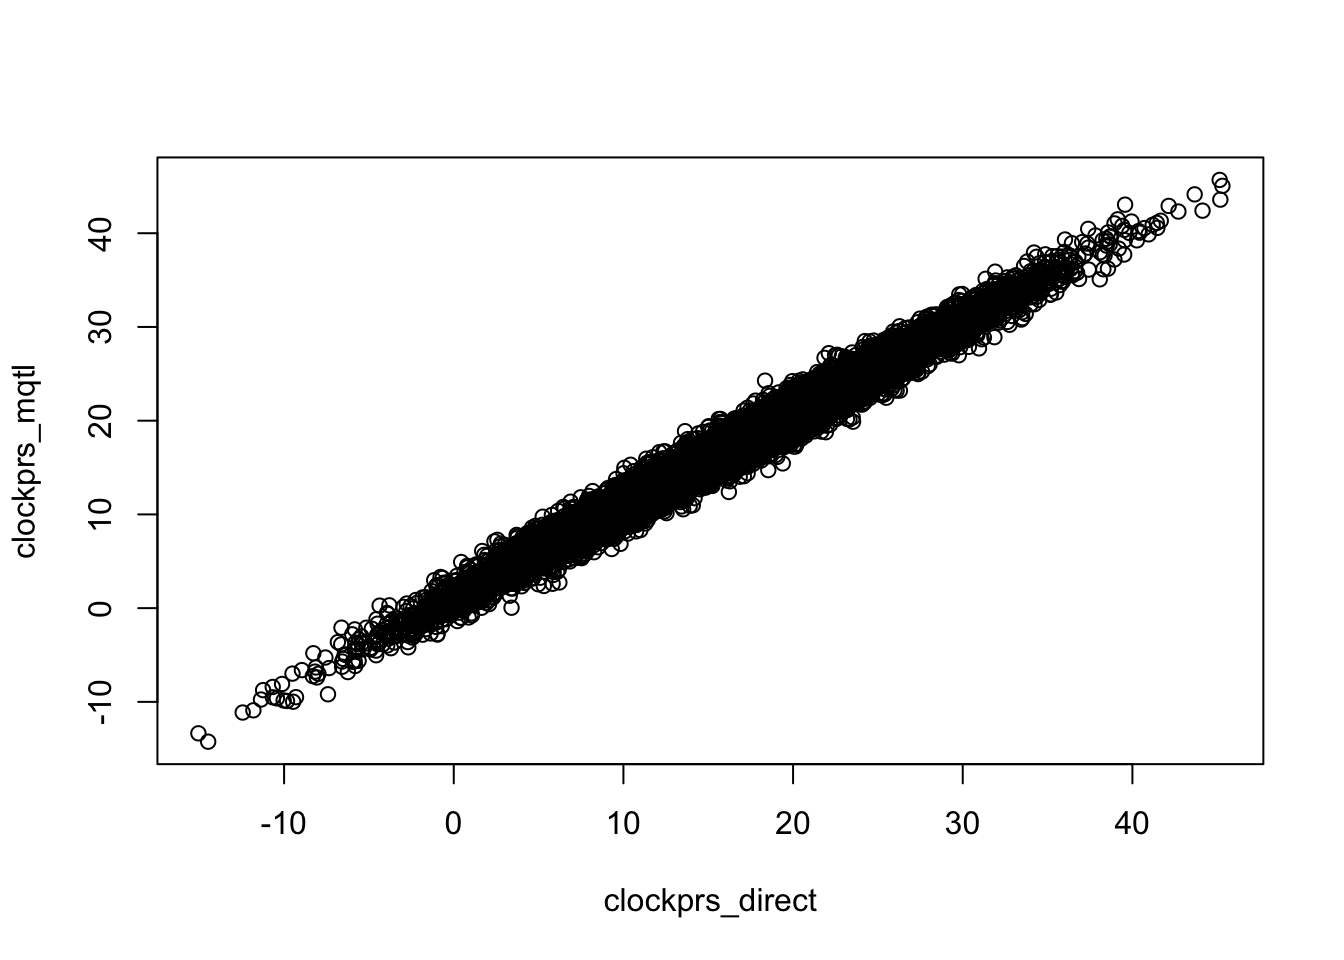
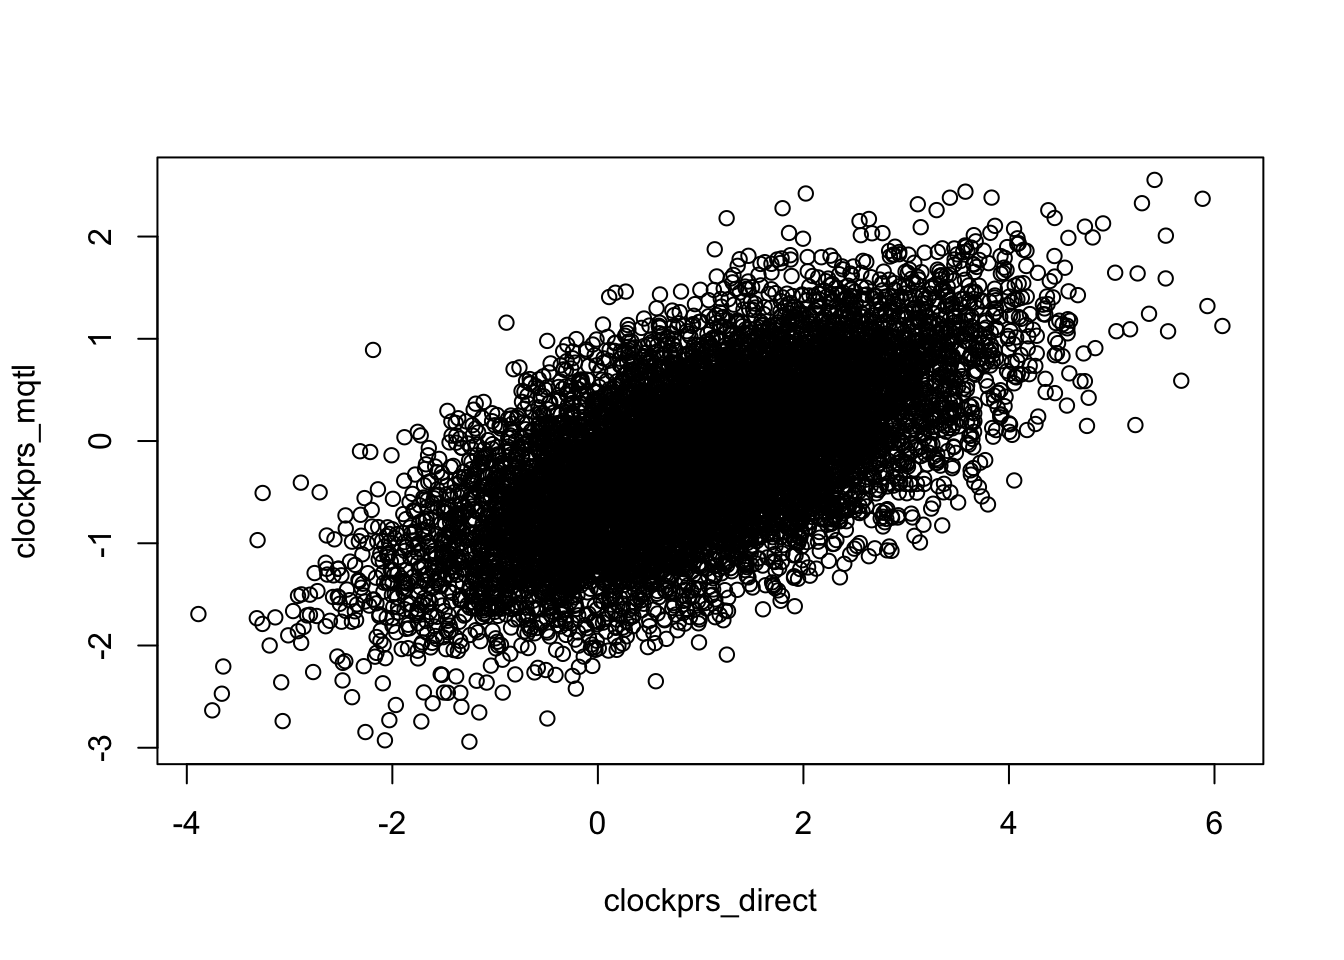
updated comparison

diff --git a/docs/posts/2024-01-04-clocks-mqtls/index.html b/docs/posts/2024-01-04-clocks-mqtls/index.html
@@ -209,17 +209,67 @@ Attaching package: 'dplyr'</code></pre>
 <span id="cb5-4"><a href="#cb5-4" aria-hidden="true" tabindex="-1"></a></span>
 <span id="cb5-5"><a href="#cb5-5" aria-hidden="true" tabindex="-1"></a>w <span class="ot">&lt;-</span> <span class="fu">rnorm</span>(ncpg)</span>
 <span id="cb5-6"><a href="#cb5-6" aria-hidden="true" tabindex="-1"></a>g <span class="ot">&lt;-</span> <span class="fu">matrix</span>(<span class="fu">rbinom</span>(ncpg <span class="sc">*</span> nid, <span class="dv">2</span>, <span class="fl">0.5</span>), nid, ncpg)</span>
-<span id="cb5-7"><a href="#cb5-7" aria-hidden="true" tabindex="-1"></a>b <span class="ot">&lt;-</span> <span class="fu">rnorm</span>(ncpg)</span>
+<span id="cb5-7"><a href="#cb5-7" aria-hidden="true" tabindex="-1"></a>b <span class="ot">&lt;-</span> <span class="fu">rnorm</span>(ncpg, <span class="at">sd=</span><span class="fl">0.1</span>)</span>
 <span id="cb5-8"><a href="#cb5-8" aria-hidden="true" tabindex="-1"></a>e <span class="ot">&lt;-</span> <span class="fu">matrix</span>(<span class="fu">rnorm</span>(ncpg <span class="sc">*</span> nid), nid, ncpg)</span>
-<span id="cb5-9"><a href="#cb5-9" aria-hidden="true" tabindex="-1"></a>cpghat <span class="ot">&lt;-</span> <span class="fu">t</span>(<span class="fu">t</span>(g) <span class="sc">*</span> b)</span>
-<span id="cb5-10"><a href="#cb5-10" aria-hidden="true" tabindex="-1"></a>cpg <span class="ot">&lt;-</span> cpghat <span class="sc">+</span> e</span>
+<span id="cb5-9"><a href="#cb5-9" aria-hidden="true" tabindex="-1"></a>cpgg <span class="ot">&lt;-</span> <span class="fu">t</span>(<span class="fu">t</span>(g) <span class="sc">*</span> b)</span>
+<span id="cb5-10"><a href="#cb5-10" aria-hidden="true" tabindex="-1"></a>cpg <span class="ot">&lt;-</span> cpgg <span class="sc">+</span> e</span>
 <span id="cb5-11"><a href="#cb5-11" aria-hidden="true" tabindex="-1"></a>clock <span class="ot">&lt;-</span> cpg <span class="sc">%*%</span> w</span>
 <span id="cb5-12"><a href="#cb5-12" aria-hidden="true" tabindex="-1"></a>clockgwas <span class="ot">&lt;-</span> <span class="fu">gwas</span>(clock, g)</span>
 <span id="cb5-13"><a href="#cb5-13" aria-hidden="true" tabindex="-1"></a>clockprs_direct <span class="ot">&lt;-</span> g <span class="sc">%*%</span> clockgwas<span class="sc">$</span>bhat</span>
-<span id="cb5-14"><a href="#cb5-14" aria-hidden="true" tabindex="-1"></a>clockprs_mqtl <span class="ot">&lt;-</span> cpghat <span class="sc">%*%</span> w</span>
-<span id="cb5-15"><a href="#cb5-15" aria-hidden="true" tabindex="-1"></a><span class="fu">plot</span>(clockprs_direct, clockprs_mqtl)</span></code><button title="Copy to Clipboard" class="code-copy-button"><i class="bi"></i></button></pre></div>
+<span id="cb5-14"><a href="#cb5-14" aria-hidden="true" tabindex="-1"></a></span>
+<span id="cb5-15"><a href="#cb5-15" aria-hidden="true" tabindex="-1"></a>bhat <span class="ot">&lt;-</span> <span class="fu">sapply</span>(<span class="dv">1</span><span class="sc">:</span>ncpg, \(i) {</span>
+<span id="cb5-16"><a href="#cb5-16" aria-hidden="true" tabindex="-1"></a>    <span class="fu">fast_assoc</span>(cpg[,i], g[,i])<span class="sc">$</span>bhat</span>
+<span id="cb5-17"><a href="#cb5-17" aria-hidden="true" tabindex="-1"></a>})</span>
+<span id="cb5-18"><a href="#cb5-18" aria-hidden="true" tabindex="-1"></a>cpghat <span class="ot">&lt;-</span> <span class="fu">t</span>(<span class="fu">t</span>(g) <span class="sc">*</span> bhat)</span>
+<span id="cb5-19"><a href="#cb5-19" aria-hidden="true" tabindex="-1"></a>clockprs_mqtl <span class="ot">&lt;-</span> cpghat <span class="sc">%*%</span> w</span>
+<span id="cb5-20"><a href="#cb5-20" aria-hidden="true" tabindex="-1"></a><span class="fu">plot</span>(clockprs_direct, clockprs_mqtl)</span></code><button title="Copy to Clipboard" class="code-copy-button"><i class="bi"></i></button></pre></div>
 <div class="cell-output-display">
 <p><img src="index_files/figure-html/unnamed-chunk-1-1.png" class="img-fluid" width="672"></p>
+</div>
+</div>
+<p>Which is better powered?</p>
+<div class="cell">
+<div class="sourceCode cell-code" id="cb6"><pre class="sourceCode r code-with-copy"><code class="sourceCode r"><span id="cb6-1"><a href="#cb6-1" aria-hidden="true" tabindex="-1"></a><span class="fu">summary</span>(<span class="fu">lm</span>(clock <span class="sc">~</span> clockprs_direct))</span></code><button title="Copy to Clipboard" class="code-copy-button"><i class="bi"></i></button></pre></div>
+<div class="cell-output cell-output-stdout">
+<pre><code>
+Call:
+lm(formula = clock ~ clockprs_direct)
+
+Residuals:
+    Min      1Q  Median      3Q     Max 
+-37.279  -7.035  -0.015   6.933  44.983 
+
+Coefficients:
+                Estimate Std. Error t value Pr(&gt;|t|)    
+(Intercept)     -0.92219    0.13001  -7.093  1.4e-12 ***
+clockprs_direct  1.01061    0.07803  12.951  &lt; 2e-16 ***
+---
+Signif. codes:  0 '***' 0.001 '**' 0.01 '*' 0.05 '.' 0.1 ' ' 1
+
+Residual standard error: 10.35 on 9998 degrees of freedom
+Multiple R-squared:  0.0165,    Adjusted R-squared:  0.0164 
+F-statistic: 167.7 on 1 and 9998 DF,  p-value: &lt; 2.2e-16</code></pre>
+</div>
+<div class="sourceCode cell-code" id="cb8"><pre class="sourceCode r code-with-copy"><code class="sourceCode r"><span id="cb8-1"><a href="#cb8-1" aria-hidden="true" tabindex="-1"></a><span class="fu">summary</span>(<span class="fu">lm</span>(clock <span class="sc">~</span> clockprs_mqtl))</span></code><button title="Copy to Clipboard" class="code-copy-button"><i class="bi"></i></button></pre></div>
+<div class="cell-output cell-output-stdout">
+<pre><code>
+Call:
+lm(formula = clock ~ clockprs_mqtl)
+
+Residuals:
+    Min      1Q  Median      3Q     Max 
+-37.123  -7.076   0.032   6.962  45.099 
+
+Coefficients:
+              Estimate Std. Error t value Pr(&gt;|t|)    
+(Intercept)     0.2571     0.1059   2.428   0.0152 *  
+clockprs_mqtl   1.0943     0.1332   8.215 2.39e-16 ***
+---
+Signif. codes:  0 '***' 0.001 '**' 0.01 '*' 0.05 '.' 0.1 ' ' 1
+
+Residual standard error: 10.41 on 9998 degrees of freedom
+Multiple R-squared:  0.006704,  Adjusted R-squared:  0.006605 
+F-statistic: 67.48 on 1 and 9998 DF,  p-value: 2.387e-16</code></pre>
 </div>
 </div>
 </section>
@@ -227,11 +277,12 @@ Attaching package: 'dplyr'</code></pre>
 <h2 class="anchored" data-anchor-id="summary">Summary</h2>
 <ul>
 <li>Generating clock PRS using GWAS of clock is equivalent to generating the clock PRS indirectly from mQTLs</li>
+<li>It’s better powered to GWAS the clock directly than to use mQTLs, assuming same sample sizes for clock GWAS and mQTL</li>
 <li>There may be latent heritable factors that influence CpGs that are not the known mQTLs, and which in aggregate are better powered to be detected by the clock GWAS. But these are likely to be a minority of the genetic variation for the clock.</li>
 </ul>
 <hr>
 <div class="cell">
-<div class="sourceCode cell-code" id="cb6"><pre class="sourceCode r code-with-copy"><code class="sourceCode r"><span id="cb6-1"><a href="#cb6-1" aria-hidden="true" tabindex="-1"></a><span class="fu">sessionInfo</span>()</span></code><button title="Copy to Clipboard" class="code-copy-button"><i class="bi"></i></button></pre></div>
+<div class="sourceCode cell-code" id="cb10"><pre class="sourceCode r code-with-copy"><code class="sourceCode r"><span id="cb10-1"><a href="#cb10-1" aria-hidden="true" tabindex="-1"></a><span class="fu">sessionInfo</span>()</span></code><button title="Copy to Clipboard" class="code-copy-button"><i class="bi"></i></button></pre></div>
 <div class="cell-output cell-output-stdout">
 <pre><code>R version 4.3.2 (2023-10-31)
 Platform: aarch64-apple-darwin20 (64-bit)

diff --git a/docs/index.html b/docs/index.html
@@ -172,7 +172,7 @@ Categories
 </tr>
 </thead>
 <tbody class="list">
-<tr data-index="0" data-categories="" data-listing-date-sort="1704326400000" data-listing-file-modified-sort="1704364719660" data-listing-date-modified-sort="NaN" data-listing-reading-time-sort="1" data-listing-title-sort="Generating PRS of clocks from mQTLs" data-listing-filename-sort="index.qmd" onclick="href = this.querySelector('a').getAttribute('href');
+<tr data-index="0" data-categories="" data-listing-date-sort="1704326400000" data-listing-file-modified-sort="1704375192991" data-listing-date-modified-sort="NaN" data-listing-reading-time-sort="1" data-listing-title-sort="Generating PRS of clocks from mQTLs" data-listing-filename-sort="index.qmd" onclick="href = this.querySelector('a').getAttribute('href');
  if (href) { window.location=href ; return false; }">
 <td>
 <span class="listing-date">Jan 4, 2024</span>
